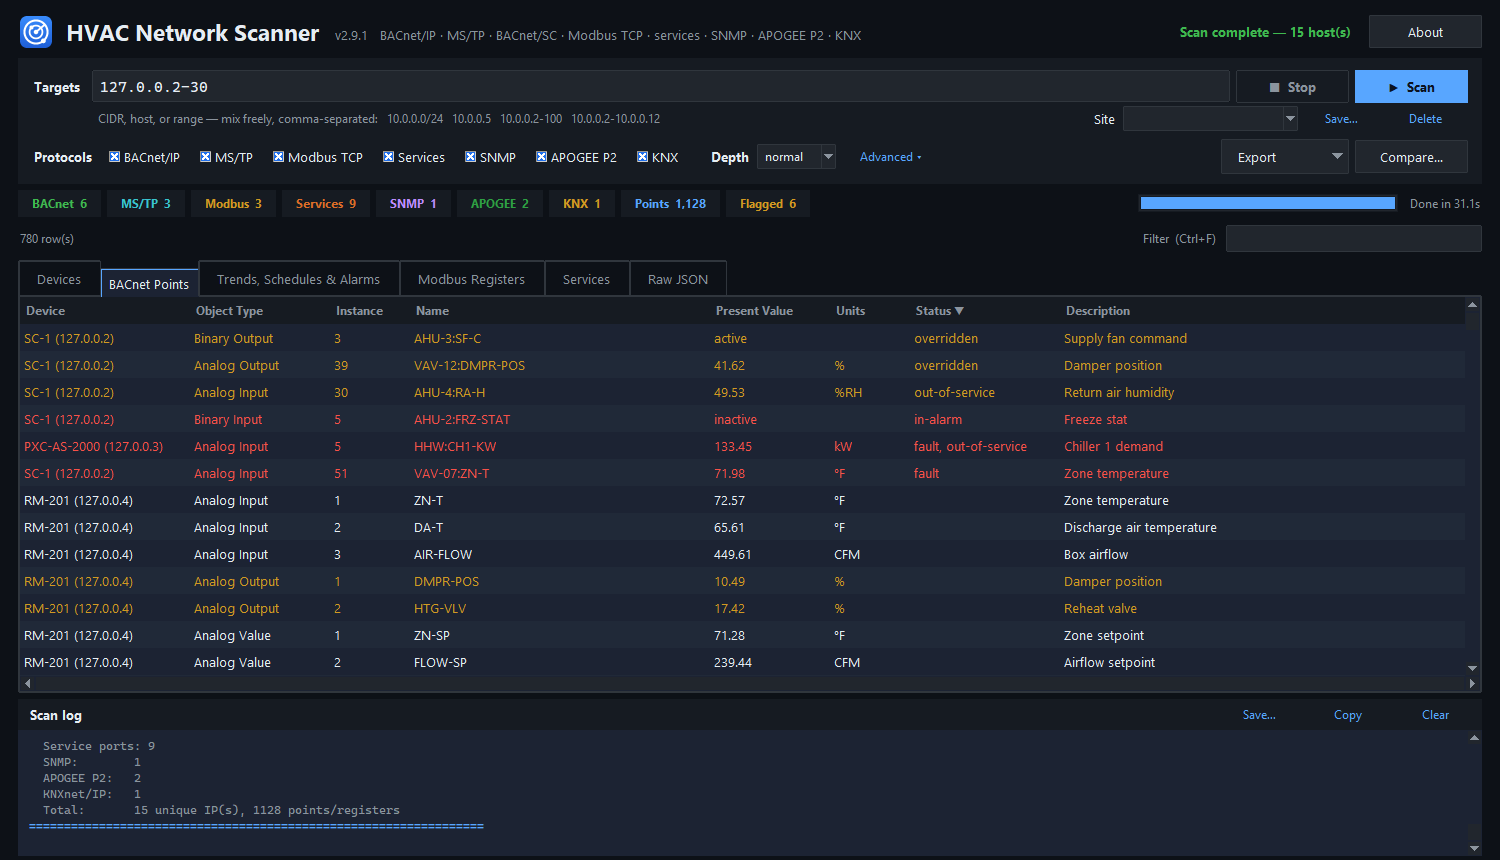
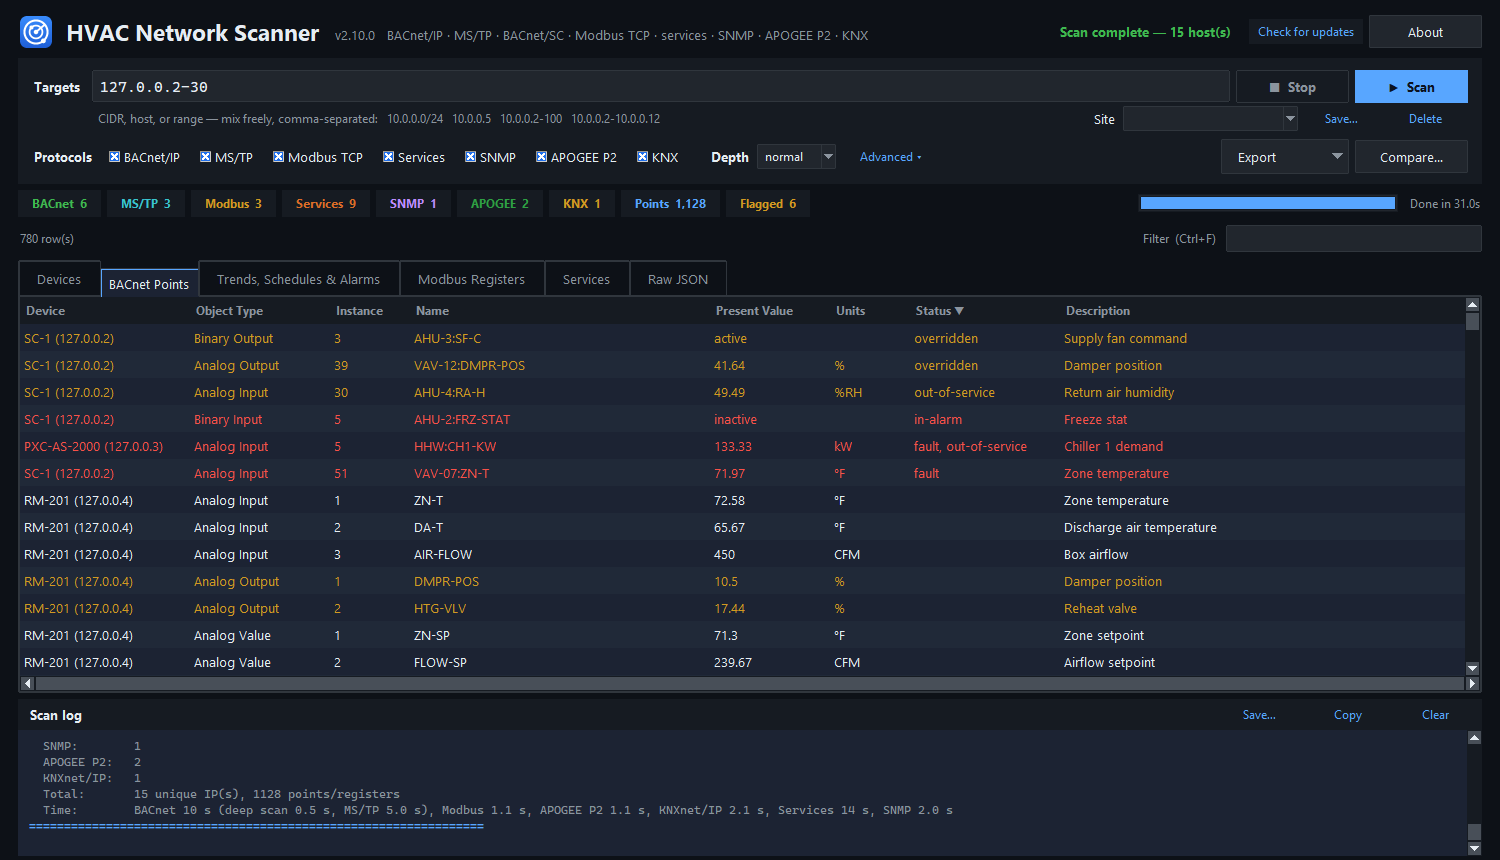
Release 2.10.0
Version bump, changelog date, README notes, screenshots retaken against the simulated site.

diff --git a/hvac_scanner/__init__.py b/hvac_scanner/__init__.py
@@ -5,7 +5,7 @@ APOGEE P2, HVAC services, SNMP.
 Zero third-party dependencies (uses only the Python standard library).
 """
 
-__version__ = "2.9.1"
+__version__ = "2.10.0"
 __author__ = "James Cupps"
 __license__ = "MIT"
 

diff --git a/README.md b/README.md
@@ -330,6 +330,30 @@ Exit codes:
 
 ## What's new
 
+### v2.10.0 (2026-11-06)
+
+Tested on a real site over four rounds. Full list in
+[CHANGELOG.md](CHANGELOG.md).
+
+- **Updates from inside the app**: the executable checks once a day and
+  installs a new release with one click, after checking it against a signed
+  manifest; if anything fails the previous exe is put back. Copies older
+  than 2.10 update by hand once.
+- **Devices only** depth for a fast inventory, and a **per-device time
+  limit** (180 s by default) so one bad controller cannot hold a scan up.
+- **A log that says where the time went**: the clock on every section, how
+  long each device took and how many requests it left unanswered, and a
+  time summary at the end. The report lists controllers that drop requests.
+- **Finds the whole site**: every silent address on another subnet is
+  probed (and asked twice), whatever answered through a BBMD; lost packets
+  no longer drop a controller to slow single reads; devices answering from
+  outside the targets are named by subnet; the export records the BACnet
+  port and the address the scan ran from.
+- **Devices named for what they are** (DXR2 models, PXC Modular/Compact,
+  Desigo PXC4/5/7, Insight, Tracer Ensemble, drives, gateways); the same
+  fault on many identical controllers is one report row; the dark theme's
+  scrollbars are visible.
+
 ### v2.9.1 (2026-11-06)
 
 Fixes from an external review: robustness against broken or hostile

diff --git a/CHANGELOG.md b/CHANGELOG.md
@@ -5,6 +5,8 @@ Format based on [Keep a Changelog](https://keepachangelog.com/en/1.1.0/).
 
 ## [Unreleased]
 
+## [2.10.0] — 2026-11-06
+
 ### Added
 
 - **Updates from inside the app.** The Windows executable checks for a new
